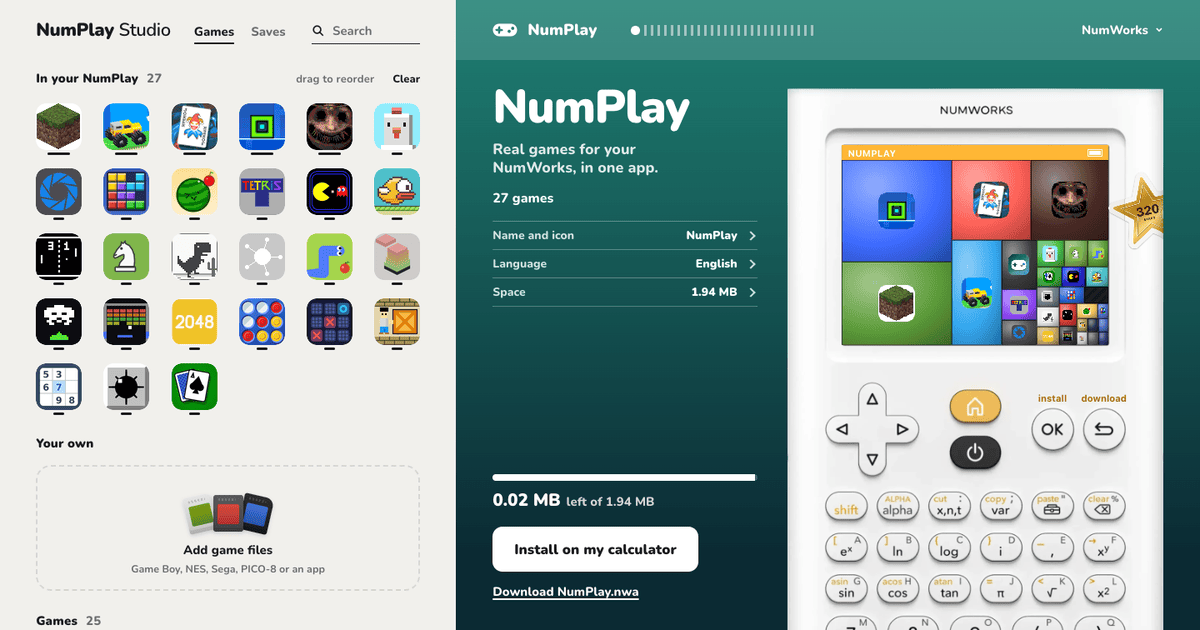
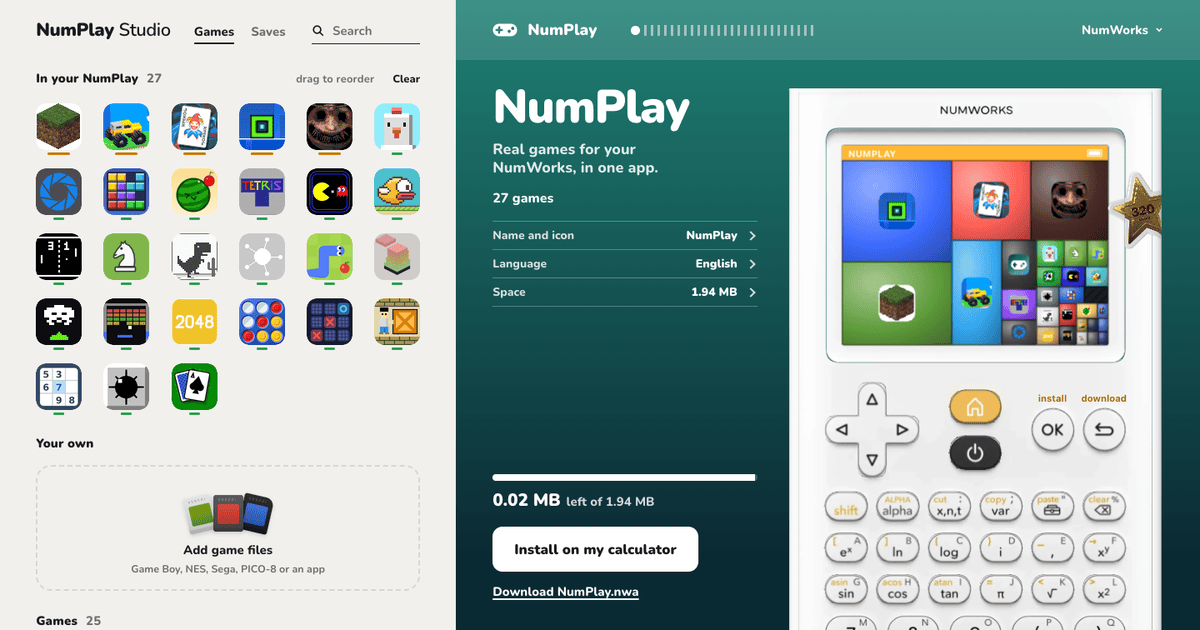
NumPlay Studio: the size marks in colour
Green for a small game, amber for a middle one, red for a big one, each at
least 3:1 against the shelf; a game there is no room for keeps its colour,
faded as its icon is. The ring a search puts on your games is blue now, as
amber is a size.

diff --git a/customize/app.css b/customize/app.css
@@ -24,6 +24,10 @@
   --r-s: 8px;
   --r-m: 12px;
   --r-l: 18px;
+  /* a game's size, under its icon: green small, amber middle, red big (each at least 3:1 on the ground) */
+  --size-s: #1f9d55;
+  --size-m: #c27a00;
+  --size-l: #dc3545;
 }
 * { box-sizing: border-box; }
 html, body { margin: 0; }
@@ -80,15 +84,17 @@ html.other .tabs { display: none; }  /* (Saves talks to the NumWorks: the other 
 /* (the ring: round the icon, 2px out from it on every side. The icon sits 4px down in its button, which centres it,
    so the ring's box is the icon's grown by 4px each way; the size mark steps aside while it is ringed) */
 .app::before { content: ""; position: absolute; left: -4px; top: 0; box-sizing: border-box; width: 63px; height: 64px; border-radius: 16px; border: 2px solid transparent; pointer-events: none; transition: border-color 120ms linear; }
-/* (its size, as a line centred 3px under the icon (app.js, sizeMark): short for a small game, longer for a middle one,
-   and for a big one the whole bottom edge, wrapped part way up its round corners) */
-.app .sz { position: absolute; left: 0; top: 0; width: 55px; height: 64px; overflow: visible; fill: none; stroke: var(--ink); stroke-width: 3; stroke-linecap: round; pointer-events: none; transition: opacity 120ms linear; }
+/* (its size, as a line centred 3px under the icon (app.js, sizeMark): short and green for a small game, longer and amber
+   for a middle one, and red for a big one, along the whole bottom edge and wrapped part way up its round corners) */
+.app .sz { position: absolute; left: 0; top: 0; width: 55px; height: 64px; overflow: visible; fill: none; stroke: var(--size-s); stroke-width: 3; stroke-linecap: round; pointer-events: none; transition: opacity 120ms linear; }
+.app[data-size="m"] .sz { stroke: var(--size-m); }
+.app[data-size="l"] .sz { stroke: var(--size-l); }
 /* (no room for it: gray. It can still be pressed, to see it and what it needs) */
 .app.nofit img { filter: grayscale(1); opacity: 0.4; }
-.app.nofit .sz { stroke: #b4b3ac; }
+.app.nofit .sz { opacity: 0.45; }  /* (no room for it: its size still shows, faded as its icon is) */
 #in-more.out .app { filter: grayscale(1); opacity: 0.4; }  /* (left out: a game is on its own) */
 /* (one of yours that a search finds: yours all stay in sight while you search) */
-.app.found::before { border-color: #e8940c; }
+.app.found::before { border-color: #2563eb; }  /* (blue: amber is a size) */
 .app:focus-visible { outline: 0; }
 .app.at::before, .app.held::before, .app:focus-visible::before { border-color: var(--ink); }
 .app.at .sz, .app.held .sz, .app.found .sz, .app:focus-visible .sz { opacity: 0; }
